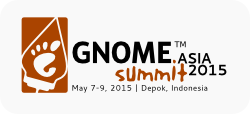
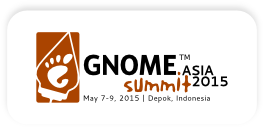
Change a header_bg_2014.jpg to header_bg_2015.png

Changed region(s): [[0.084, 0.1316, 0.924, 0.8158]]

diff --git a/css/style.css b/css/style.css
@@ -1,7 +1,9 @@
 * {
 	font-family: 'Lato', sans-serif;
 }
- 
+ .jumbotron img{
+	max-width:100%;
+ }
 .header-jumbotron {
 	margin-top: 30px;
 }
@@ -15,15 +17,14 @@ body {
 	background-image: url(../img/header_bg_2015.png);
 	background-repeat: repeat-x;
 }
-
 .nav-justified {
   background-color: #AA4400;
   border: 1px solid #AA4400;
   border-radius: 5px;
 }
 .nav-justified > li > a {
-  padding-top: 15px;
-  padding-bottom: 15px;
+  padding-top: 5px;
+  padding-bottom: 5px;
   margin-bottom: 0;
   font-weight: bold;
   color: #fff;
@@ -55,7 +56,7 @@ body {
 
 @media (min-width: 768px) {
   .nav-justified {
-    max-height: 52px;
+    max-height: 32px;
   }
   .nav-justified > li > a {
     border-right: 1px solid #AA4400;

diff --git a/index.html b/index.html
@@ -6,7 +6,7 @@
     <meta name="viewport" content="width=device-width, initial-scale=1">
     <meta name="description" content="">
     <meta name="author" content="">
-    <link rel="icon" href="../../favicon.ico">
+    <link rel="icon" href="img/favicon.ico">
 
     <title>GNOME Asia Summit 2015</title>
 
@@ -34,7 +34,7 @@
     <div class="container">
 
       <div class="masthead">
-        <h3 class="text-muted"><img src="img/navbar.png"></h3>
+        <h3 class="text-muted"><img src="img/navbar.png" ></h3>
         <ul class="nav nav-justified">
           <li class="active"><a href="index.html">Home</a></li>
           <li><a href="#">About</a></li>

diff --git a/css/justified-nav.css b/css/justified-nav.css
@@ -48,8 +48,8 @@ body {
 .nav-justified > .active > a:focus {
   background-color: #ddd;
   background-image: none;
-  -webkit-box-shadow: inset 0 3px 7px rgba(0,0,0,.15);
-          box-shadow: inset 0 3px 7px rgba(0,0,0,.15);
+  -webkit-box-shadow: inset 0 2px 7px rgba(0,0,0,.15);
+          box-shadow: inset 0 2px 7px rgba(0,0,0,.15);
 }
 .nav-justified > li:first-child > a {
   border-radius: 5px 5px 0 0;
